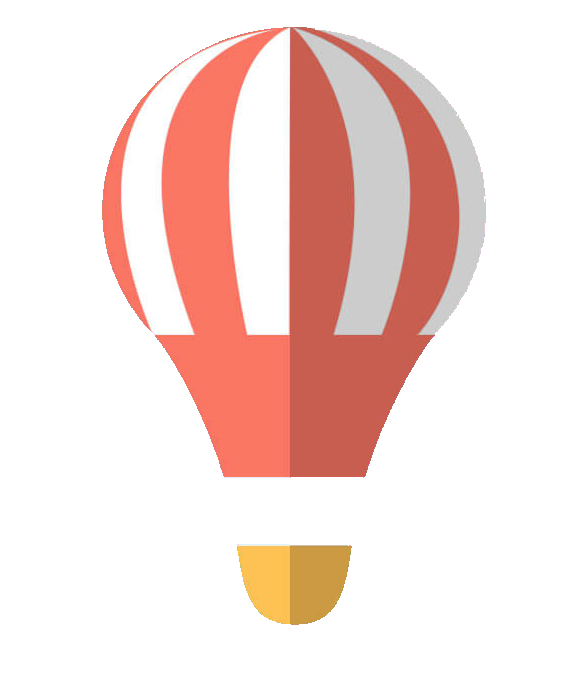
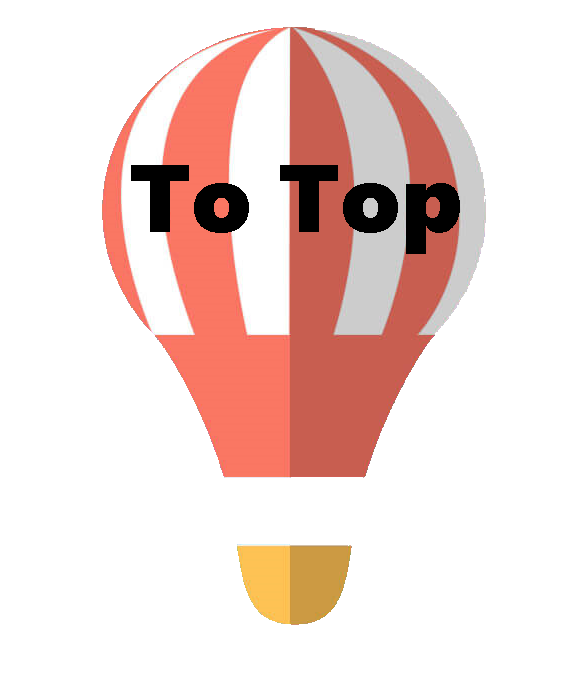
ballooooon changes

Changed region(s): [[0.5836, 0.2474, 0.7986, 0.3711], [0.215, 0.2165, 0.43, 0.3402], [0.4608, 0.2165, 0.5836, 0.3402]]

diff --git a/index.html b/index.html
@@ -17,7 +17,7 @@
   </head>
 
 <body>
-<img class="balloon" src="img/balloon.png" alt="balloon">
+<a href="#top" class="smoothScroll"><img class="balloon" src="img/balloon.png" alt="balloon"></a>
   <div class="cars">
     <img class="car1" src="img/car1.png" alt="car">
     <img class="car2" src="img/car2.png" alt="car">
@@ -27,7 +27,7 @@
     <img class="car6" src="img/car6.png" alt="car">
   </div>
 
-  <div class="header">
+  <div class="header" id="top">
 
     <nav>
       <ul>

diff --git a/css/responsive.css b/css/responsive.css
@@ -255,6 +255,7 @@
 
   .balloon {
     margin-left: 5px;
+    height: 140px;
   }
 
   .bottom button {
@@ -288,6 +289,7 @@
 
   .balloon {
     margin-left: 0;
+    height: 130px;
   }
 
   #about {
@@ -320,7 +322,7 @@
 @media (max-width: 540px) {
 
   .balloon {
-    visibility: hidden;
+    height: 120px;
   }
 
   #about {
@@ -461,6 +463,10 @@
 /* 400px Screen Size */
 
 @media (max-width: 400px) {
+
+  .balloon {
+    height: 100px;
+  }
 
   .intro h1 {
     font-size: 420%;

diff --git a/css/index.css b/css/index.css
@@ -11,10 +11,10 @@
 }
 
 .balloon {
-  position: absolute;
+  position: fixed;
   height: 150px;
   width: auto;
-  margin-left: 120px;
+  margin-left: 90px;
   margin-top: 60px;
   animation-name: float;
   animation-duration: 8s;
@@ -26,6 +26,7 @@
   -webkit-animation-iteration-count: infinite;
   -webkit-animation-delay: 1s;
   -webkit-animation-timing-function: ease-in;
+  z-index: 30;
 }
 
 @keyframes float {
